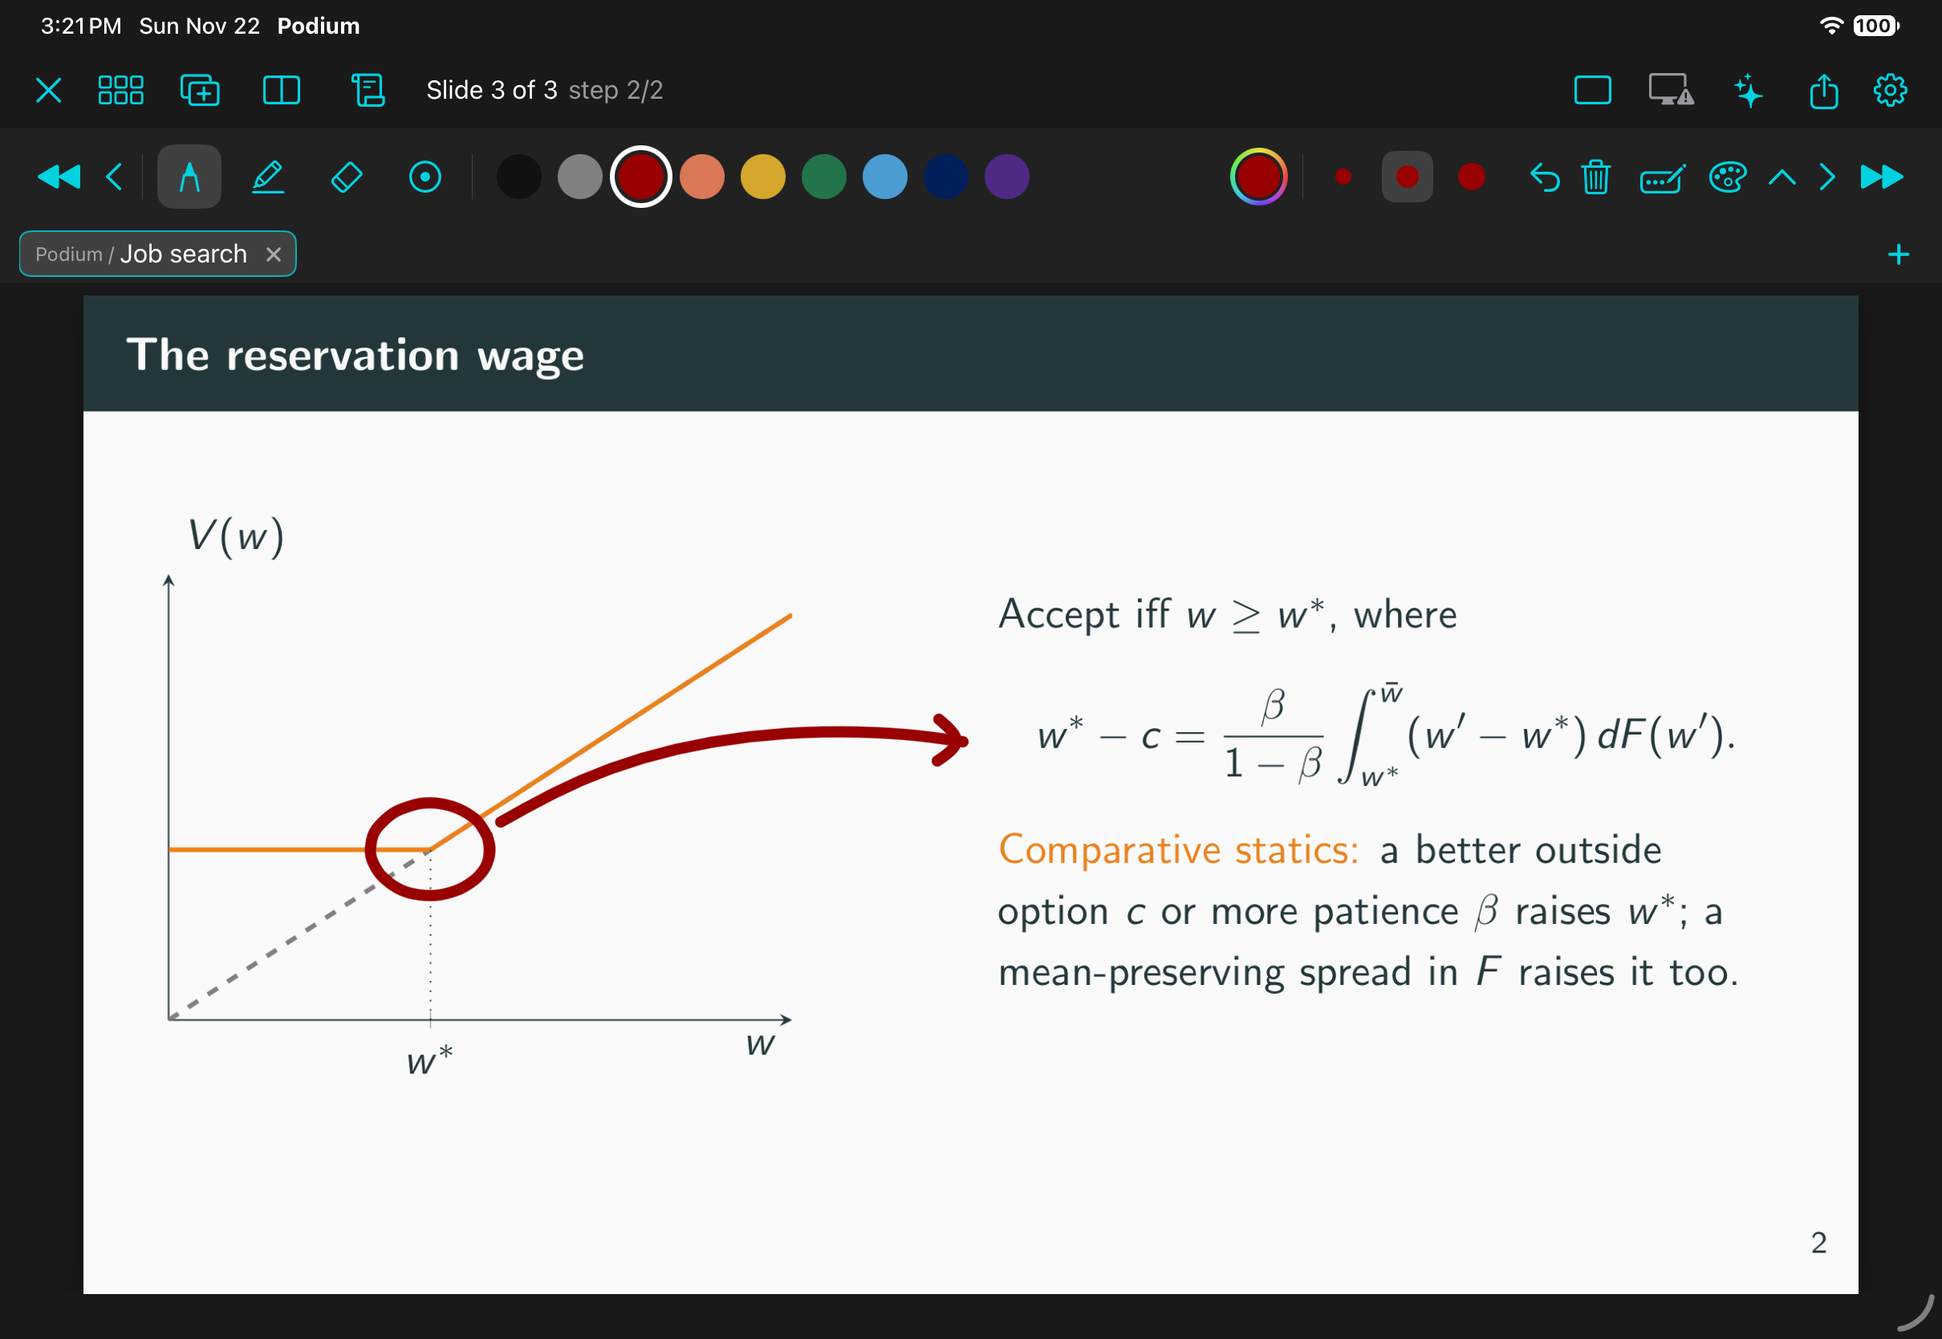
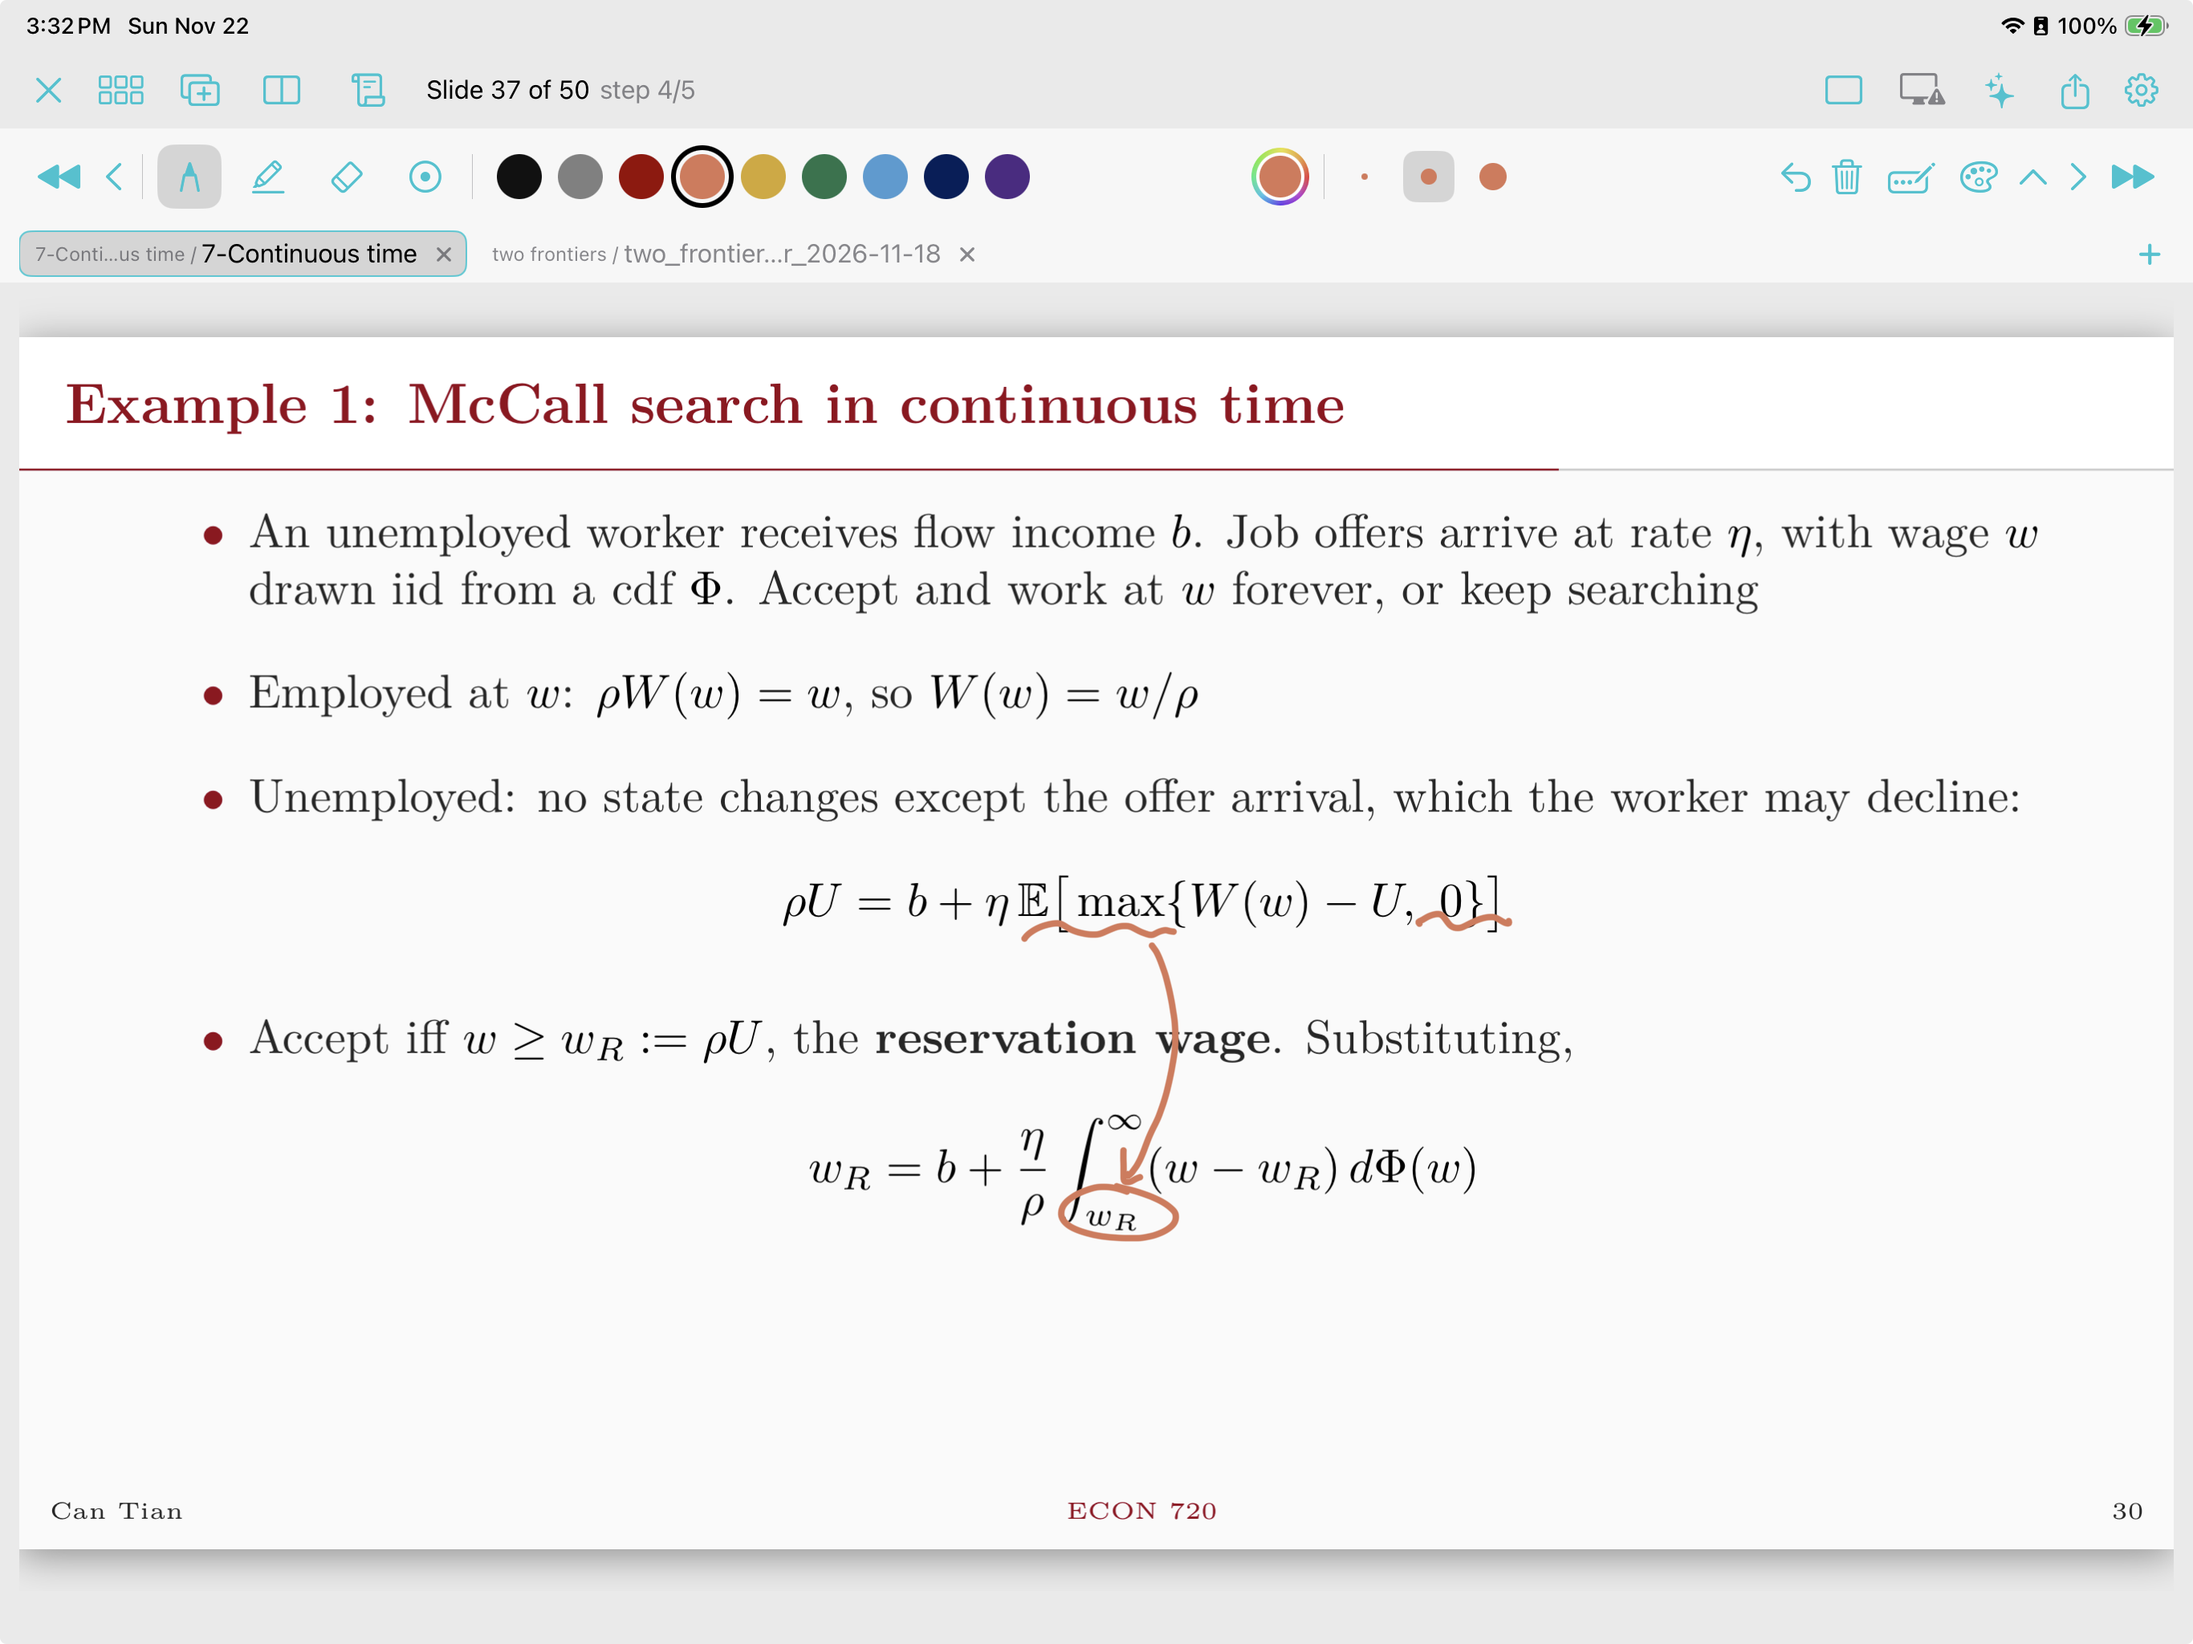
README hero: an annotated ECON 720 lecture slide

diff --git a/README.md b/README.md
@@ -2,7 +2,7 @@
 
 An iPad app for presenting and reading PDFs, made for LaTeX Beamer talks and papers. It has ink that matches your slides, better pointers, and a projector view that shows only the slide.
 
-![A Beamer slide annotated in Podium](screenshots/hero-beamer.png)
+![A Beamer lecture slide annotated in Podium, in Claude orange](screenshots/hero-beamer.png)
 
 Try it with the sample deck in `examples/job-search.pdf` (source: `job-search.tex`).
 
@@ -28,6 +28,8 @@ The pointer follows the Pencil when it touches the screen or hovers just above i
 - **Palettes:** the default "Podium" palette (black, grey, Penn red, Claude orange, ochre, forest green, Carolina blue, Penn blue, Northwestern purple), three more built-in palettes, and one generated from each deck's own theme colours. You can add custom colours with the system picker; its eyedropper samples anything on screen.
 - **Extras:** a whiteboard, note margins beside the page, and blank or photo pages inserted between slides.
 - **Export:** an annotated PDF with your ink.
+
+![The sample deck with pen ink, in landscape](screenshots/sample-deck-ink.png)
 
 ### Reading
 - **Scroll mode** with pinch zoom.
